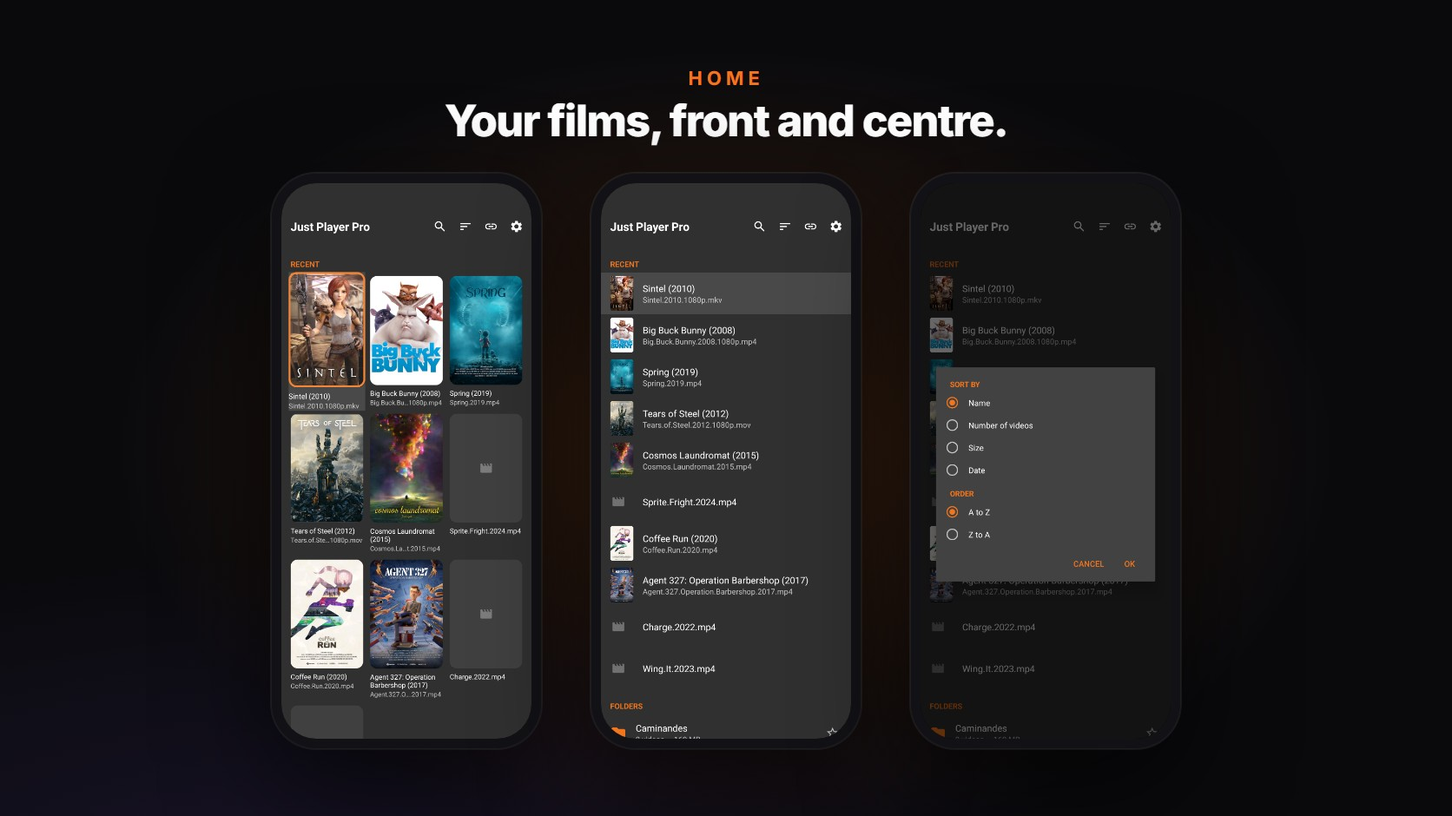
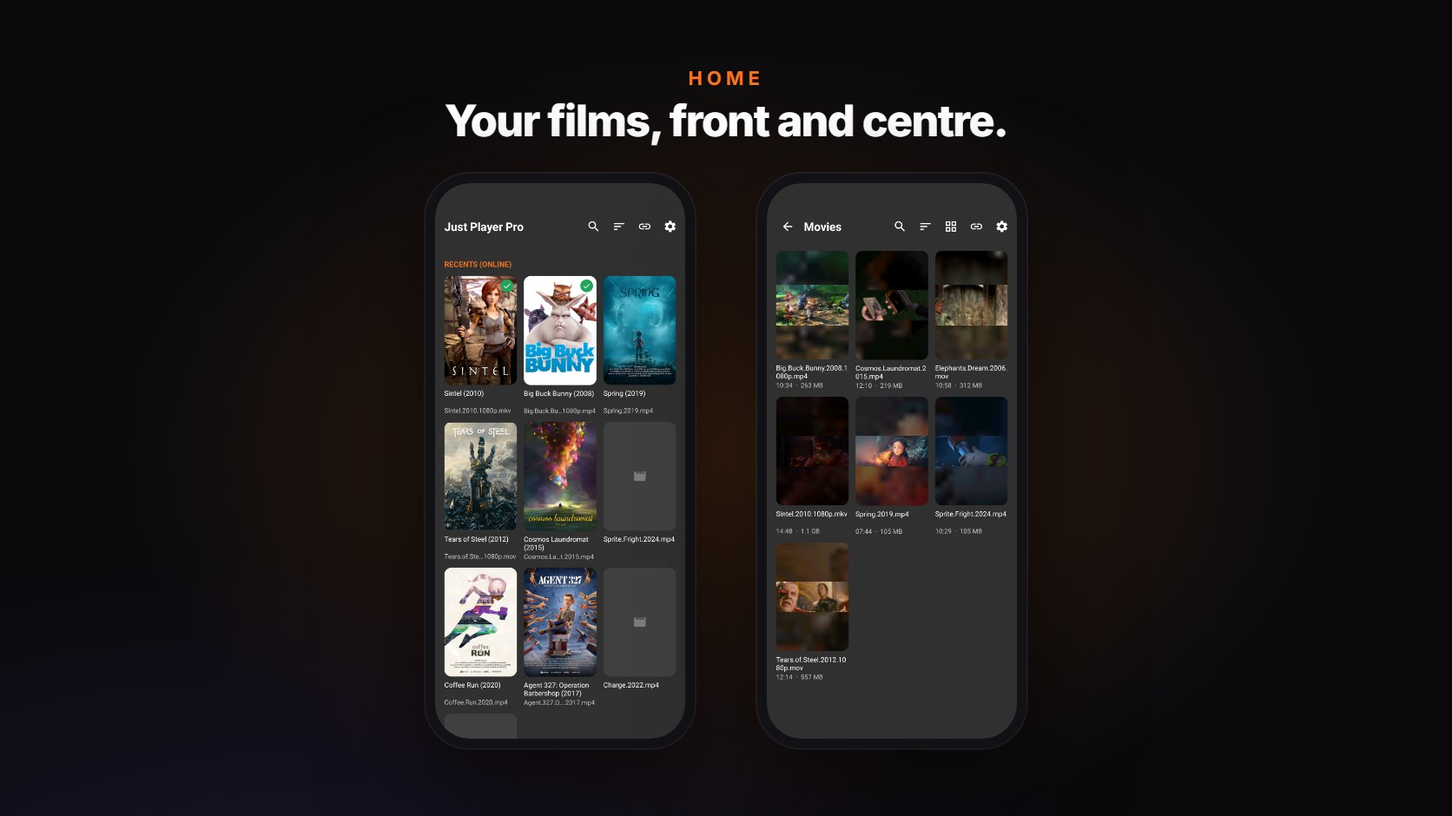
Readme, release notes and screenshots for 5.1.0

Changed region(s): [[0.1866, 0.216, 0.8086, 0.9255]]

diff --git a/README.md b/README.md
@@ -10,7 +10,7 @@ Media3/ExoPlayer and a full build of mpv ship inside one app, and the player mov
 its own — so a file one cannot decode is handled by the other instead of failing. The same build is
 driven by a finger on a phone or by a D-pad from across the room, and behaves the same either way.
 
-[![Release](https://img.shields.io/badge/release-v5.0.0-F4601E?style=flat-square)](https://github.com/Zain-Imam/just-player-pro/releases/latest)
+[![Release](https://img.shields.io/badge/release-v5.1.0-F4601E?style=flat-square)](https://github.com/Zain-Imam/just-player-pro/releases/latest)
 [![Downloads](https://img.shields.io/github/downloads/Zain-Imam/just-player-pro/total?style=flat-square&color=F4601E&label=downloads)](https://github.com/Zain-Imam/just-player-pro/releases)
 [![Android](https://img.shields.io/badge/Android-7.1%2B-3DDC84?style=flat-square&logo=android&logoColor=white)](#building)
 [![Engines](https://img.shields.io/badge/engines-Media3%20%2B%20mpv-4C8BF5?style=flat-square)](#the-two-engines)
@@ -28,7 +28,7 @@ https://github.com/user-attachments/assets/d1f6a8dc-6e96-478b-a5c7-84876f8998a8
 
 <table>
 <tr>
-<td width="33%"><img src="docs/screenshots/02-library.jpg" alt="The home screen as a poster wall and as a list, and the sort choices"></td>
+<td width="33%"><img src="docs/screenshots/02-library.jpg" alt="Recent on the home screen as cards with posters and ticks, and a folder of films as cards"></td>
 <td width="33%"><img src="docs/screenshots/09-appearance.jpg" alt="One frame in the Classic, Glass and Material You styles"></td>
 <td width="33%"><img src="docs/screenshots/08-online-setup.jpg" alt="The setup page offered on a television, and the same page open on a phone"></td>
 </tr>
@@ -36,6 +36,11 @@ https://github.com/user-attachments/assets/d1f6a8dc-6e96-478b-a5c7-84876f8998a8
 <td width="33%"><img src="docs/screenshots/11-theme-and-colours.jpg" alt="The home screen in the dark and the light theme, the theme colour picker, and the home screen in green"></td>
 <td width="33%"><img src="docs/screenshots/12-film-info-and-ratings.jpg" alt="A film's page with its scores and cast, the info card with the same scores, and the screen that orders the rating sites"></td>
 <td width="33%"><img src="docs/screenshots/13-subtitle-style.jpg" alt="Subtitles in yellow over a film, with the subtitle panel open on its text colour"></td>
+</tr>
+<tr>
+<td width="33%"><img src="docs/screenshots/16-websites.jpg" alt="A YouTube video playing with its Quality list open, and the Integrations page with YouTube and other sites ready"></td>
+<td width="33%"><img src="docs/screenshots/17-watched.jpg" alt="Recent with green ticks on watched films, and a film's page marked Watched with an Unwatch button"></td>
+<td width="33%"><img src="docs/screenshots/18-screen-off.jpg" alt="The player's controls in the notification shade, with the film's picture, name and year"></td>
 </tr>
 </table>
 
@@ -62,15 +67,22 @@ player you already use.
 <img src="docs/screenshots/04-playback.jpg" alt="A film playing on a phone, with the details line under its title">
 <img src="docs/screenshots/05-quick-settings.jpg" alt="The quick settings panel beside the picture">
 <img src="docs/screenshots/14-controls.jpg" alt="Moving a button in Buttons and their order, the result, and a setting found by search">
+<img src="docs/screenshots/18-screen-off.jpg" alt="The player's controls in the notification shade, with the film's picture, name and year">
 
 ### Titles and subtitles
 
 <img src="docs/screenshots/06-info-and-subtitles.jpg" alt="An info card with the film's scores over a paused film, and subtitles found across several sources">
 <img src="docs/screenshots/07-identify.jpg" alt="Picking which film a file is from a grid of posters, and changing it from the film's page">
 
+### YouTube and other sites
+
+<img src="docs/screenshots/16-websites.jpg" alt="A YouTube video playing with its Quality list open, and the Integrations page with YouTube and other sites ready">
+
 ### Finding and keeping things
 
 <img src="docs/screenshots/03-search.jpg" alt="Searching by file name, a film's own page with its scores and cast, and the menu a held Recent film opens">
+<img src="docs/screenshots/15-folder-views.jpg" alt="One folder as a list, as a gallery and as cards">
+<img src="docs/screenshots/17-watched.jpg" alt="Recent with green ticks on watched films, and a film's page marked Watched with an Unwatch button">
 <img src="docs/screenshots/10-backup-and-history.jpg" alt="Settings in sections, the storage and backup page, and Settings in Arabic">
 
 </details>
@@ -80,30 +92,34 @@ player you already use.
 **Just Player Pro** plays the video files you already have — on a phone, a tablet or a
 television — with no library to build, no account to make and no advertising.
 
-It opens on what you played last and the folders that actually hold videos, as a list or a
-wall of posters, hands the bitstream straight to the device's decoders, and carries a second
+It opens on what you played last and the folders that actually hold videos, as a list, a
+gallery or cards, hands the bitstream straight to the device's decoders, and carries a second
 engine for the files the first one cannot manage.
 Where you want more than playback it will look a film up for its title, poster and
-synopsis, search several sources for subtitles, and skip past intros — each of those
-optional, each using a key you supply, and none of it touching the network until you ask.
+synopsis, search several sources for subtitles, skip past intros, play YouTube and other sites,
+and keep track of what you have watched, with Simkl if you like — each of those optional, and
+none of it touching the network until you ask.
 
 ## ✨ Key features
 
 | | Feature | What it does |
 |---|---|---|
 | ⚡ | **Two engines, one app** | Media3 hands the bitstream to the device's own decoders; a bundled mpv carries 501 of its own. On *Auto* the player starts on Media3 and moves to mpv for a file Media3 cannot take |
+| 🌐 | **YouTube and 1,800 other sites** *(optional)* | Share a link from YouTube or a browser, or paste one. yt-dlp finds the video and either engine plays it, with a Quality button, audio only, the site's captions and playlists. A download in Settings → Integrations (about 13 MB, so the app itself stays small), kept up to date from yt-dlp's own releases |
 | 📺 | **Touch and remote, one build** | The same APK on a phone, a tablet and an Android TV. Every control a finger reaches, a D-pad reaches |
-| 🏠 | **A home screen for your films** | Recent on top, then the folders that hold videos, as a list or a wall of posters. Hold a film to pin it, start it over or open its page, with the cast and its scores. Search by file name across the device, or sort four ways |
+| 🏠 | **A home screen for your films** | What you played online and on the device, then the folders that hold videos, as a list, a gallery or cards. Hold a film to pin it, start it over or open its page, with the cast and its scores. Search by file name across the device, or sort four ways |
+| ✅ | **What you have watched** | A green tick in Recent and Mark as watched in Film info, at 95% or wherever you set it. Connect Simkl and it follows your Simkl history both ways |
+| 🔒 | **Sound with the screen off** | Films and streams play on behind the lock screen, with the player's controls, poster and title in the notification shade and on the lock screen |
 | 🎨 | **Three looks, eleven colours** | Classic, Glass or Material You for the player, in any of eleven accent colours, and a dark or light home screen. Applied at once, no restart |
 | 🖼 | **Previews while seeking** | Drag the bar, or hold an arrow on a remote, and the frame you are heading for follows along. Files and streams alike |
 | 🎬 | **Info card while paused** | Poster, title, season and episode, date, rating and synopsis, centred on the picture and sized to it. With a free MDBList key, IMDb, Rotten Tomatoes, Metacritic and more as well |
 | 🔍 | **Identify what you are watching** | A release name becomes a title through TMDB, with AniList's help for anime. When it is unsure it asks; pick from a grid of posters, then jump straight to an episode |
 | 💬 | **Subtitles from several sources** | OpenSubtitles, SubDL, Wyzie and any Stremio addon you add, in over 100 languages. SRT, ASS, VTT, SAMI and more, inside the file or beside it, in eight colours or your own font. The one you pick is remembered for that film |
 | ⏩ | **Skip intros and credits** *(experimental)* | Chapter marks where the file carries them; where it does not, community timings from IntroDB, TheIntroDB, SkipDB and AniSkip |
-| ⚙ | **Settings you can search** | Ten sections that show what they are set to, a search box on every page, two panes on a TV. Keys can be typed on your phone through a PIN-gated page |
+| ⚙ | **Settings you can search** | Eleven sections that show what they are set to, a search box on every page, two panes on a TV. Keys can be typed on your phone through a PIN-gated page |
 | 🌍 | **Nineteen languages** | English plus Spanish, Portuguese, French, German, Russian, Ukrainian, Polish, Italian, Turkish, Arabic, Hindi, Indonesian, Chinese (both scripts), Japanese, Korean, Vietnamese and Persian, worded to fit the same screens |
 | 💾 | **Export and import** | Settings, keys, history and the per-file delays and speeds, in one file. The export asks what goes in it |
-| 🛡 | **Stays offline until you ask** | No ads, no tracking, no account, barely any permissions. Every online feature waits on a key of your own |
+| 🛡 | **Stays offline until you ask** | No ads, no tracking, no account needed, barely any permissions. Every online feature waits until you turn it on |
 
 ## Download
 
@@ -111,10 +127,10 @@ Grab the newest build from **[Releases](https://github.com/Zain-Imam/just-player
 
 | File | For |
 |---|---|
-| `just-player-pro-5.0.0-arm64-v8a.apk` | Almost every phone, tablet and TV box made since 2017 |
-| `just-player-pro-5.0.0-armeabi-v7a.apk` | Older 32-bit devices |
-| `just-player-pro-5.0.0-x86_64.apk` · `-x86.apk` | Emulators and the few x86 devices |
-| `just-player-pro-5.0.0-universal.apk` | All four at once — four times the mpv payload, so only if you are unsure |
+| `just-player-pro-5.1.0-arm64-v8a.apk` | Almost every phone, tablet and TV box made since 2017 |
+| `just-player-pro-5.1.0-armeabi-v7a.apk` | Older 32-bit devices |
+| `just-player-pro-5.1.0-x86_64.apk` · `-x86.apk` | Emulators and the few x86 devices |
+| `just-player-pro-5.1.0-universal.apk` | All four at once — four times the mpv payload, so only if you are unsure |
 
 Android 7.1 or newer. The mpv engine additionally needs Android 8.0 and is offered only there.
 
@@ -251,14 +267,69 @@ paused and opens the search already filled in.
   second video to a player already in memory used to leave the title, poster, synopsis and markers
   of the one before it on screen. Both ways in now do the same work.
 * **Recent, with real titles.** The home screen starts with what you played last, newest first, the
-  film's name rather than a UUID from the URL. Hold one, or hold OK on a remote, to pin it to the
-  top, play it from the start, open its page or remove it. A film gets its name there after 30
-  seconds of play (or whatever you set, from 10 seconds to 5 minutes), and until then its page asks
-  **Is this …?** so one tap names it straight away.
+  film's name rather than a UUID from the URL: up to 30 played online, then the last 10 played from
+  the device itself, each with how much is left. Hold one, or hold OK on a remote, to pin it to the
+  top (up to half of what the row shows), play it from the start, open its page or remove it. A
+  film gets its name there after 30 seconds of play (or whatever you set, from 10 seconds to 5
+  minutes), and until then its page asks **Is this …?** so one tap names it straight away. An
+  episode's card has its season and number on it, since every episode shares the show's poster.
 * **A page for every film.** Poster, synopsis, the cast (a show's own, not one episode's), its
   scores, where you stopped and the file it came from, with **Copy link** for a film from a link
   and **Change it** for when the match is wrong. The new title follows it back to Recent.
+  **Remove film details** takes a wrong match away altogether: the video goes back to its plain
+  name and picture, and is not matched again until you pick a film.
 
+
+</details>
+
+<details>
+<summary><b>YouTube and other sites, and what you have watched</b></summary>
+
+## YouTube and other sites
+
+<div align="center">
+  <img src="docs/screenshots/16-websites.jpg" alt="A YouTube video playing with its Quality list open, and the Integrations page with YouTube and other sites ready">
+</div>
+
+Share a link from YouTube, a browser or any app, or paste one with the link button, and
+[yt-dlp](https://github.com/yt-dlp/yt-dlp) works out the video, its qualities, captions and audio
+languages. Either engine then plays it like any other stream.
+
+* **An optional download, not part of the app.** Settings → Integrations → **YouTube and other
+  sites** fetches yt-dlp and a Python to run it, about 13 MB, so the app stays small for everyone
+  who never needs it. yt-dlp keeps up with the sites by updating itself (or tells you, or waits
+  for **Update now**), so a site changing does not wait for a new release of the player.
+* **Quality and sound.** A **Quality** button lists every quality the site offers and **Audio
+  only**; **Starting quality** picks one for you. Dubbed audio sits under the Audio button, each
+  by its language, and the site's captions under the subtitle button, the ones in your Settings
+  languages picked for you.
+* **Playlists.** A YouTube playlist or a YouTube Music list plays through in order, with a
+  **Queue** button to jump around; private and deleted videos are passed over. The whole list is
+  one card in Recent that carries on where you stopped.
+* **Sparing with YouTube.** A video's answer is kept as long as its links work, captions are
+  fetched once, and a "confirm you're not a bot" check pauses YouTube for five minutes instead of
+  asking again, so its limits rarely get in the way.
+* **What does not play.** A video protected by DRM says so, and sites that only show videos to a
+  signed-in account (Instagram, Reddit) fail with a short message.
+
+## Watched, with Simkl
+
+<div align="center">
+  <img src="docs/screenshots/17-watched.jpg" alt="Recent with green ticks on watched films, and a film's page marked Watched with an Unwatch button">
+</div>
+
+* **A tick for what you have watched.** A film counts as watched at 95%, or wherever you set it
+  between 50 and 100% in Settings → Integrations, where a switch also turns it off. Recent and the
+  folders show a green tick, and Film info has **Mark as watched** and **Unwatch**. A live stream
+  is never counted.
+* **[Simkl](https://simkl.com), if you use it.** Connect it in Settings → Integrations: on a phone
+  Simkl's own page opens in the browser, on a TV you type a code at simkl.com/pin. What you watch
+  is then reported as you watch it, and Simkl marks a film watched at your own percentage. What
+  Simkl has as watched gets the tick too, and a film only planned or dropped there does not.
+* **Unwatch takes back only what this app marked**, and puts a film back on the Simkl list it was
+  on before. Something watched elsewhere says *Watched on Simkl*, and is changed on Simkl itself.
+* **Your account stays on the device.** The sign-in is kept on the phone, never in a backup, and
+  nothing runs on a server of ours. Without an account all of it works on the phone alone.
 
 </details>
 
@@ -390,6 +461,7 @@ what is on screen at that moment.
 
 <div align="center">
   <img src="docs/screenshots/04-playback.jpg" alt="A film playing on a phone, with the details line under its title">
+  <img src="docs/screenshots/18-screen-off.jpg" alt="The player's controls in the notification shade, with the film's picture, name and year">
 </div>
 
 * **Adaptive buffering** — the same device-aware profiles applied to *both* engines, so they buffer
@@ -402,8 +474,11 @@ what is on screen at that moment.
 * **Playback speed per file** — a documentary watched at 1.25× opens at 1.25× next time, however
   many films at normal speed came in between. The last speed chosen is still what an unwatched file
   opens at.
-* **Keep playing the sound** *(off by default)* — the screen can go off, or the player be put away,
-  and the sound carries on. Picture-in-picture still wins on Home when it is enabled.
+* **Sound with the screen off** *(off by default)* — the screen can go off, or the player be put
+  away, and the sound carries on, streams too: a foreground service keeps the connection open,
+  which Android 15 otherwise cuts within seconds. The notification shade and the lock screen show
+  the player's controls with the film's poster and name; tapping them brings the player back.
+  Picture-in-picture still wins on Home when it is enabled.
 * **Preview while seeking** *(on by default)*. Dragging the bar, or holding an arrow on a remote,
   shows the frame you are heading for in a bubble that follows along, and the film only jumps when
   you let go. Streams too: it reads just the pictures it needs, not the film.
@@ -456,6 +531,7 @@ in: one that stopped answering last week still looked fine until the evening it 
 <div align="center">
   <img src="docs/screenshots/09-appearance.jpg" alt="One frame in the Classic, Glass and Material You styles">
   <img src="docs/screenshots/11-theme-and-colours.jpg" alt="The home screen in the dark and the light theme, the theme colour picker, and the home screen in green">
+  <img src="docs/screenshots/15-folder-views.jpg" alt="One folder as a list, as a gallery and as cards">
 </div>
 
 **Three player styles**: Classic, Glass (frosted bands over the picture) and Material You. **Eleven
@@ -464,6 +540,10 @@ bar and every highlight. The launcher icon stays orange. The first start asks fo
 picture changes as you choose. Home, Settings and the film pages are dark by default and can be
 light, or follow the phone; the player itself always stays dark, and a TV stays dark throughout.
 
+* **Folders as a list, a gallery or cards** — a button inside a folder switches between them, the
+  same choice as Settings → Home screen, and new installs start on cards. A folder's own picture
+  comes in four looks: the picture whole in the middle, square, a mosaic, or a plain folder in your
+  theme colour. Long names stop at two lines so the cards line up.
 * **Rebuilt bottom bar** — play/pause is the leftmost item in the time row, tapping the time
   toggles remaining-versus-total, and the button strip shares that line rather than sitting on top
   of it. In portrait, where eight buttons at a usable size are wider than the screen has left, the
@@ -530,6 +610,11 @@ that never happened.
   not press volume buttons.
 * Where a value could have been hard-coded for one input method it is not. The arrows seek by the
   step set in settings, the same step the double tap uses.
+* Things a finger does by holding have a remote way too: holding OK on the title shares the film's
+  link, Undo after removing from Recent takes focus, Quick settings has a Brightness row, and a
+  locked player tells you to hold OK.
+* Signing in to Simkl on a television shows a code to type at simkl.com/pin on any other device,
+  rather than a browser the television may not have.
 
 Layouts are in dp and sp throughout and reflow rather than clip, so the same build is used on
 phones in either orientation, on tablets, and on televisions.
@@ -634,6 +719,9 @@ own under **Custom subtitle addons**; each is tested against a known film before
 Scores from other sites need an **MDBList** key, also free: mdblist.com → Preferences → API. Turn
 on **MDBList ratings** in **Settings → Online**, paste the key, and it is tested as you save it.
 
+YouTube and other sites need the yt-dlp download in **Settings → Integrations**, and the same page
+connects **Simkl**. Neither needs a key of your own.
+
 Two switches worth knowing:
 
 * **Identify files** — automatic by default, which is what fills the info card, the skip markers
@@ -680,7 +768,8 @@ ExoPlayer and the player view do not come from Maven here. They come from
 `app/libs/lib-exoplayer-release.aar` and `lib-ui-release.aar`, patched builds — the player calls
 `DefaultRenderersFactory.setMapDV7ToHevc()`, `PlayerView.showProgress()` and
 `PlayerView.hideControllerImmediately()`, none of which exist upstream. The four decoder extensions
-beside them are not published to Maven at all.
+beside them are not published to Maven at all. HLS is a local aar too: 1.10.0 with one fix from
+1.10.1 (see `app/libs/README.md`).
 
 Everything else Media3 does come from Maven, at `media3_version` in `app/build.gradle`, and those
 modules are compiled against the ExoPlayer of their own version. **So that number and the version
@@ -715,6 +804,11 @@ and subtitle search — depends on that. The key is free. OpenSubtitles, SubDL, 
 keys are optional and only enable those sources. All of them are entered in Settings → Online; none are
 compiled into the app.
 
+Simkl is the exception: it signs in with an app id of the build's own, read from `SIMKL_CLIENT_ID`
+in a `.env` file beside `build.gradle` (`SIMKL_CLIENT_ID:your-id`), which is not in the repository.
+Register an app at simkl.com/settings/developer as a mobile app with the redirect
+`justplayerpro://auth/simkl`. A build without it simply leaves Simkl out of Settings.
+
 
 </details>
 
@@ -747,6 +841,11 @@ Smaller borrowings — a parser's shape, the way one app or another hands subtit
   a first run.
 * [zxing](https://github.com/zxing/zxing) core, Apache 2.0 — the encoder behind the error code, and
   nothing else.
+* [yt-dlp](https://github.com/yt-dlp/yt-dlp), Unlicense, and [Python](https://www.python.org)
+  (PSF licence), downloaded only when you ask for YouTube and other sites. The 64-bit Python is
+  python.org's own Android build; the 32-bit ones are built from the same source by
+  [just-player-pro-runtime](https://github.com/Zain-Imam/just-player-pro-runtime).
+* Watched history through the [Simkl](https://simkl.com) API.
 * Skip markers from IntroDB, TheIntroDB, SkipDB and AniSkip. Titles and artwork from TMDB.
   Subtitles from OpenSubtitles, SubDL, Wyzie and any Stremio addon you add. Scores from other
   sites through [MDBList](https://mdblist.com).
@@ -795,6 +894,6 @@ not come from this project, whatever it is called:
 SHA-256  6d:c1:c9:16:44:76:06:b1:ce:ba:13:3e:1c:50:6f:a8:
          8e:11:25:9b:08:2c:d3:16:61:d0:c6:6c:12:42:dc:a6
 
-apksigner verify --print-certs just-player-pro-5.0.0-arm64-v8a.apk
+apksigner verify --print-certs just-player-pro-5.1.0-arm64-v8a.apk
 ```
 </details>

diff --git a/RELEASE_NOTES.md b/RELEASE_NOTES.md
@@ -1,3 +1,19 @@
+# 5.1.0
+
+**YouTube and about 1,800 other sites.** Share or paste a link and it plays on either engine, with a Quality button that lists every quality and audio only, the site's captions by language, and its other audio languages under the Audio button. It is an optional download in Settings → Integrations (yt-dlp and Python, about 13 MB), so the app itself stays small, and yt-dlp keeps itself up to date (or tells you, or waits for Update now). YouTube playlists and YouTube Music lists play through in order, with a Queue button to jump around, skipping private and deleted videos; a playlist is one card in Recent that carries on where you stopped. Dragging along a YouTube video shows YouTube's own preview pictures, a video protected by DRM says it can't be played, and the app asks YouTube as little as it can, so YouTube's limits rarely get in the way.
+
+**Watched, with Simkl.** Film info has Mark as watched and Unwatch, and Recent shows a green tick on what you have watched. A video counts as watched at 95%, or wherever you set it between 50 and 100% in Settings → Integrations, where a switch also turns it off. Connect your Simkl account there too: what you watch is reported as you watch it, what Simkl has as watched gets the tick, Unwatch puts a film back on the Simkl list it was on, and films you marked before connecting can be sent once. Without an account it all works on the phone alone.
+
+**Sound with the screen off** now shows the player's controls in the notification shade and on the lock screen, with the film's poster, name and episode, and tapping them brings the player back. Online videos and live streams keep playing behind the lock screen on both engines (from Android 15 a player in the background lost its connection within seconds), and a stream that drops reconnects there too.
+
+**Home.** Recents (On this device) sits under Recents (Online): the last 10 videos played from the phone, with how much is left, under the film's name and poster once Film info knows it (Settings → Home screen to turn it off). Online Recent holds up to 30, and either one can pin up to half of what it shows (never fewer than 3). A show's card has its season and episode on it. Inside a folder a new button switches between List, Gallery and Cards, the same choice as in Settings → Home screen; new installs start on Cards. Folders come in four looks (the picture whole in the middle, square, a mosaic, or a plain folder in your theme colour), Better video pictures gives sharper ones, and long names stop at two lines so the cards line up. Film info can Remove a film's details, so a wrong match goes back to its plain name and picture until you pick a film.
+
+**Subtitles and sound.** TubeMate's .smi subtitles load by themselves when they sit beside the video, even without folder access, and a file with many languages lists each one. The subtitle language Settings shows (English unless changed) is used even if it was never touched, and three-letter codes like "eng" now match. On Media3 a subtitle delay moves line by line as you hold the button, even paused, in both directions, and with Embedded styles off every line sits at the bottom middle, as on mpv. mpv follows Android's caption style (size, colours, background and edges) and pauses for a call or another app's sound as Media3 does. Brightness swipes from 0 to 100 like volume, starting where the screen already is.
+
+**Fixed since 5.0.0.** Loop works on mpv, and short clips no longer play twice. mpv plays 60 fps videos faster than normal when asked, its subtitle button no longer greys out before the subtitles arrive, Volume boost no longer drops with the sleep timer or the app's volume keys, and it warns about a 4K video only when it really struggles. Media3 no longer stops a live stream with an error when the connection blinks. The subtitle font no longer crashes the player on Android 7.1 to 8.1, Film info and the info card no longer close the app on Android 7.1 when they show ratings saved earlier, a subtitle handed over with a stream that needs request headers loads, a title fixed on the info card is the one the subtitle search uses, a new button order or seek preview applies as soon as you leave Settings, Enter on a hardware keyboard in Search and Open runs once, Match the frame rate is no longer marked Media3 only, Film info stays readable on TVs, and error messages are short and plain in every language. On a TV remote: Undo after removing from Recent, Share by holding OK on the title, a Brightness row in Quick settings, and the lock tells you to hold OK.
+
+The download is about half the size of 5.0.0's (22 MB instead of 41 on most phones).
+
 # 5.0.0
 
 The app in 18 more languages, Glass and Material You player styles, a dark or light theme in eleven colours, seek previews that follow your finger or remote (OK jumps there), a poster wall, a clock and battery in the player, and Settings you can search, in two panes on tablets and TVs.
